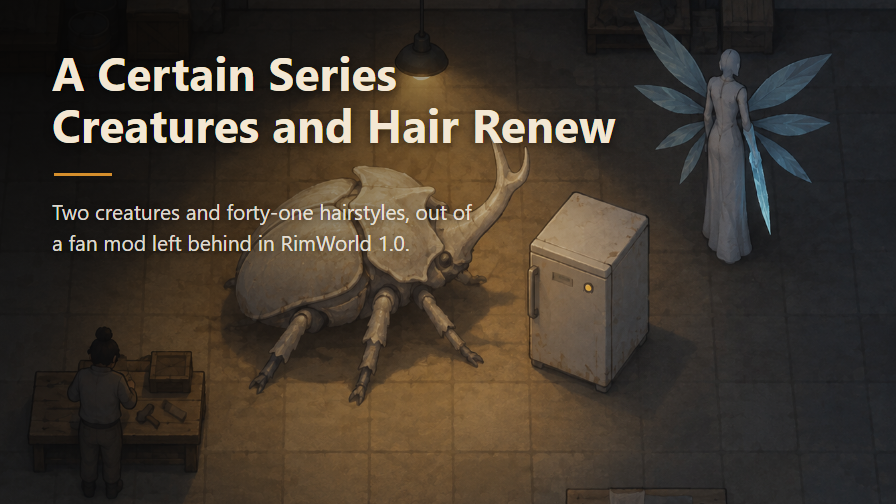
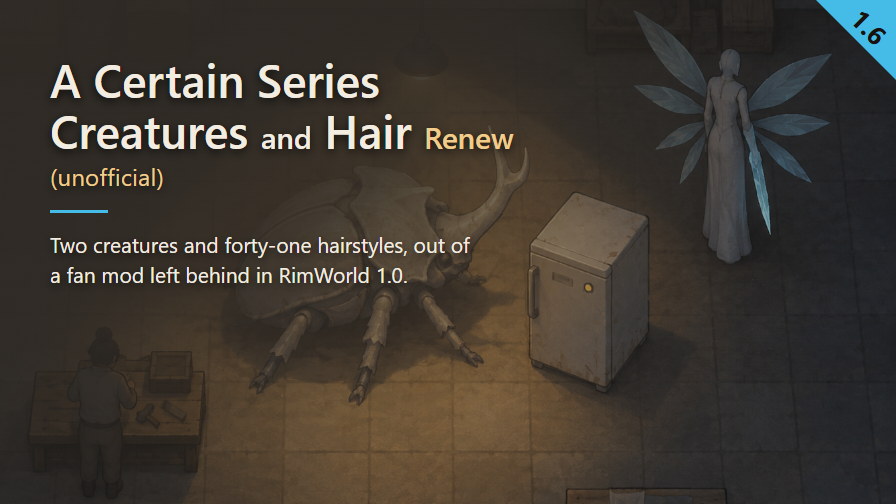
Recompose preview with title hierarchy and contrasting palette

diff --git a/Art/Preview-text.html b/Art/Preview-text.html
@@ -1,34 +1,27 @@
-<!doctype html>
-<meta charset="utf-8">
+<!doctype html><html lang="en"><meta charset="utf-8"><title>Preview</title>
 <style>
-  html,body { margin:0; padding:0; }
-  .frame {
-    position:relative; width:896px; height:504px; overflow:hidden;
-    background-image:url('file:///C:/Users/nelim/Documents/rimworld/ACertainSeriesCreaturesAndHairRenew/Art/Preview-source.png');
-    background-repeat:no-repeat;
-    background-size:896px auto;
-    background-position:0px -50px;
-  }
-  .shade {
-    position:absolute; inset:0;
-    background:radial-gradient(circle at 0% 0%, rgba(6,5,4,.86) 0%, rgba(6,5,4,0) 74%);
-  }
-  .text { position:absolute; left:52px; top:46px; font-family:"Segoe UI",sans-serif; }
-  h1 {
-    margin:0; font-size:46px; font-weight:700; line-height:1.14;
-    color:#F3E7D3; letter-spacing:.2px; text-shadow:0 2px 10px rgba(0,0,0,.55);
-  }
-  .rule { width:58px; height:3px; background:#D68F2C; margin:22px 0 20px 2px; }
-  p {
-    margin:0; width:430px; font-size:21px; line-height:1.5;
-    color:rgba(242,236,226,.93); text-shadow:0 1px 8px rgba(0,0,0,.6);
-  }
-</style>
-<div class="frame">
-  <div class="shade"></div>
-  <div class="text">
-    <h1>A Certain Series<br>Creatures and Hair Renew</h1>
-    <div class="rule"></div>
-    <p>Two creatures and forty-one hairstyles, out of a fan mod left behind in RimWorld 1.0.</p>
-  </div>
-</div>
+*{box-sizing:border-box;margin:0;padding:0}html,body{width:896px;height:504px;overflow:hidden}body{font-family:"Segoe UI",system-ui,sans-serif}
+.frame{position:relative;width:896px;height:504px;overflow:hidden;background:url('Preview.png') 0 -50px / 896px auto no-repeat}
+.shade{position:absolute;inset:0;background:radial-gradient(ellipse 950px 640px at top left,rgba(var(--veilRGB),.94) 0%,rgba(var(--veilRGB),.90) 48%,rgba(var(--veilRGB),0) 100%)}
+.text{position:absolute;left:50px;top:54px;text-shadow:0 3px 10px rgba(0,0,0,.75)}
+h1{font-size:46px;font-weight:600;line-height:1.1;letter-spacing:0;color:var(--inkPrimary)}
+.connector,.suffix{font-size:.65em;font-weight:600}.suffix{color:var(--inkSecondary)}
+.tag{width:fit-content;margin-top:8px;font-size:24px;font-weight:400;line-height:1.1;letter-spacing:.2px;color:var(--inkSecondary)}
+.rule{width:58px;height:3px;background:var(--accent);margin:20px 0 16px}
+p{width:430px;font-size:21px;font-weight:400;line-height:1.45;letter-spacing:0;color:var(--inkPrimary)}
+.badge{position:absolute;right:0;top:0;width:80px;height:80px;background:var(--accent);clip-path:polygon(0 0,100% 0,100% 100%)}
+.version{position:absolute;left:869px;top:27px;transform:translate(-50%,-50%) rotate(45deg);color:var(--badgeInk);font-size:26px;font-weight:700;line-height:1}
+</style><div class="frame"><div class="shade"></div><div class="text"><h1>A Certain Series<br>Creatures <span class="connector">and</span> Hair <span class="suffix">Renew</span></h1><div class="tag"></div><div class="rule"></div><p>Two creatures and forty-one hairstyles, out of a fan mod left behind in RimWorld 1.0.</p></div><div class="badge"></div><div class="version"></div></div>
+<script>
+window.previewReady=(async()=>{
+const palette=await(await fetch('preview-palette.json')).json();
+for(const [k,v] of Object.entries(palette))document.documentElement.style.setProperty('--'+k,v);
+document.documentElement.style.setProperty('--veilRGB',palette.veil.match(/\w\w/g).map(x=>parseInt(x,16)).join(','));
+const xml=new DOMParser().parseFromString(await(await fetch('../Mod/About/About.xml')).text(),'text/xml');
+const tag=xml.querySelector('name').textContent.match(/\((unofficial|prohibited)\)$/)?.[0];
+if(tag)document.querySelector('.tag').textContent=tag;else document.querySelector('.tag').remove();
+const versions=[...xml.querySelectorAll('supportedVersions > li')].map(n=>n.textContent.trim()).filter(v=>/^\d+\.\d+(\.\d+)?$/.test(v)).sort((a,b)=>a.localeCompare(b,undefined,{numeric:true}));
+if(!versions.length)throw Error('No stable version');document.querySelector('.version').textContent=versions.at(-1);
+await document.fonts.ready;const image=new Image();image.src='Preview.png';await image.decode();
+})();
+</script></html>

diff --git a/STATUS.md b/STATUS.md
@@ -32,6 +32,32 @@ The fields above are kept by the session that holds this mod. What they say toda
   type, 200 translation keys good.
 - **`showcase: complete`** — `Preview.png` at 896x504 with the title engraved, `ModIcon.png` at
   128x128, both full-size renders kept under `Art/`.
+  Preview overlay recomposed on 2026-09-12 against `../STYLE_RIMWORLD.md`:
+  `Art/Preview.png` is the text-free illustration copied from the preserved
+  `Art/Preview-source.png`; no illustration replacement or regeneration was needed.
+  `Art/Preview-text.html` holds the layout and reads its only colour palette from
+  `Art/preview-palette.json`. `Art/render-preview.cjs` renders and measures it with
+  Playwright and sharp (Node.js; set NODE_PATH if packages are not installed locally).
+  The veil follows the broad brown stone floor. The ochre tag follows the dominant
+  warm stone/earth hue family, lightened for contrast, not a pixel average.
+  Under the revised palette rule, the accent now comes from the seraph's blue water
+  wings, with increased saturation and lightness. This cool blue is clearly distinct
+  from the warm ochre tag and dominant earth colours at both reviewed image sizes.
+  Chrome reports actual Segoe UI Semibold for the title, Segoe UI for tag and summary,
+  and SegoeUI-Bold for version digits; capture waits for document.fonts.ready.
+  Strong title words, the connector and summary share the same primary ink.
+  Direct title spans reduce `and` and `Renew` to 0.65em (29.9px), still weight 600;
+  `Renew` uses secondary ink. `A Certain Series` retains full size as the series name.
+  The ochre secondary ink was lightened further to pass contrast behind `Renew`.
+  The separate unofficial
+  tag is 24px/400; the 80px corner badge reads the highest stable supportedVersion, 1.6.
+  `Art/preview-qa.json` records minimum contrasts over every background pixel in each
+  text bounding box with text hidden: primary title 6.09:1, connector 10.87:1,
+  Renew 4.68:1, summary 5.36:1, tag 9.01:1;
+  badge digits against the opaque accent 8.51:1. No shadow credit is used.
+  Visually checked `Mod/About/Preview.png` (896x504, 569528 bytes) and
+  `Art/preview-268.png` (268px wide): no overlap or clipping, title and version
+  identifiable, reduced title words readable and divider visible. Nothing published.
 - **`tested_on`, empty** — the mod has never been launched. That is the one real remainder, and
   not one a session can clear on its own: see [`TESTING.md`](TESTING.md), which lays out the run
   in order, the seven strings to search `Player.log` for, and the two questions that have no
